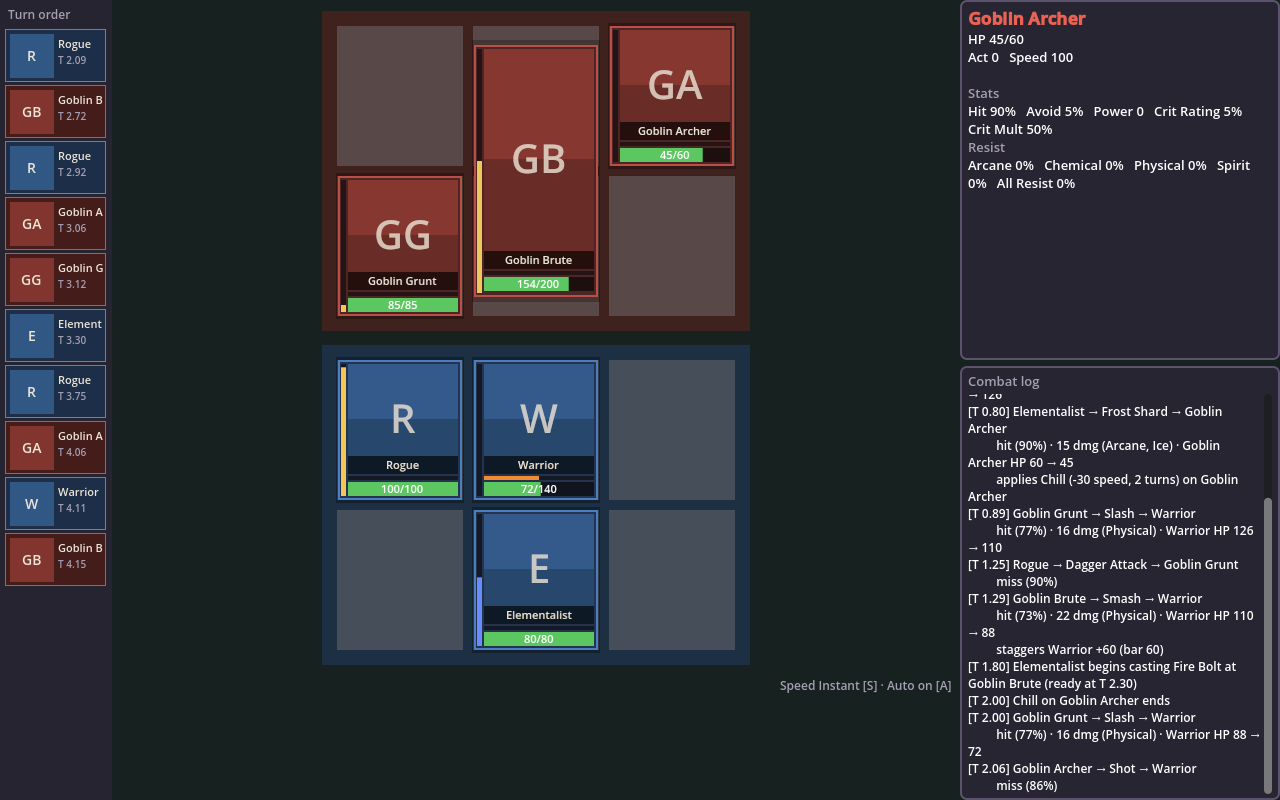
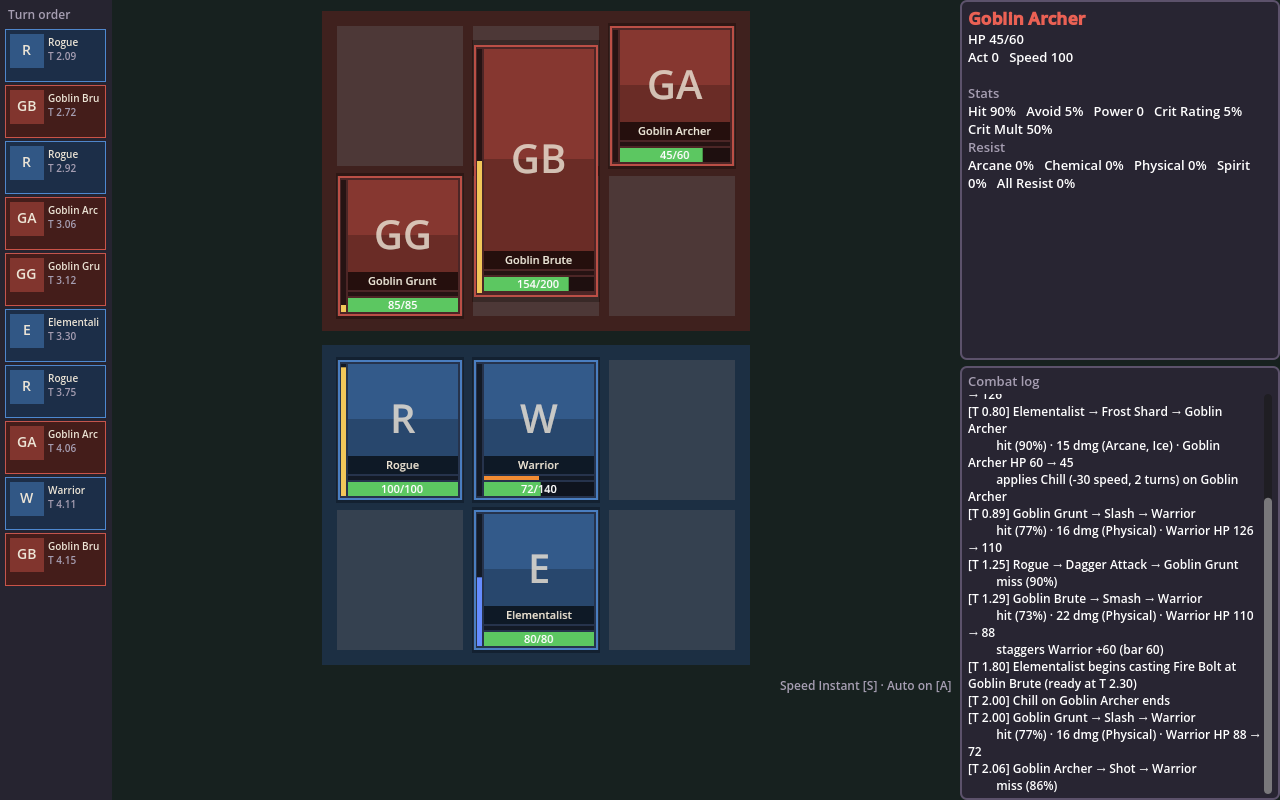
M2: tests and docs for the battle screen; Chief's hall shown side-on
Anchor: presentation.md (linked from the README) and presentation placeholders.
Tests: stepping, reason texts, art catalog and styles, art-requests up to date.
Screenshot mode can press keys and save the replay and log; the in-game log
matches sim replay. Reference screenshots refreshed.

Changed region(s): [[0.0, 0.0312, 0.0938, 0.75]]

diff --git a/tests/Core.Tests/AssetManifestTests.cs b/tests/Core.Tests/AssetManifestTests.cs
@@ -14,6 +14,49 @@ public class AssetManifestTests
     }
 
     [Fact]
+    public void Art_requests_doc_is_up_to_date()
+    {
+        var doc = File.ReadAllText(Path.Combine(TestPaths.RepoRoot, "docs", "art-requests.md")).Replace("\r\n", "\n");
+        Assert.True(doc == ArtCatalog.Markdown(TestData.Repo).Replace("\r\n", "\n"), "run sim art-requests");
+    }
+
+    [Fact]
+    public void The_art_catalog_covers_every_unit_and_sizes_art_at_twice_its_display()
+    {
+        var all = ArtCatalog.All(TestData.Repo);
+        foreach (var unit in TestData.Repo.UnitList)
+        {
+            var portrait = all.Single(r => r.Id == ArtCatalog.PortraitId(unit.Id));
+            var (w, h) = ArtCatalog.PortraitDisplay(unit.Size);
+            Assert.Equal((w * 2, h * 2), (portrait.Width, portrait.Height));
+            Assert.False(portrait.Optional);
+        }
+        Assert.Equal(all.Count, all.Select(r => r.Id).Distinct().Count());
+        Assert.All(all.Where(r => r.Group != "Portraits"), r => Assert.True(r.Optional));
+    }
+
+    [Fact]
+    public void Styles_are_listed_in_the_manifest_and_checked_against_the_catalog()
+    {
+        var root = Path.Combine(Path.GetTempPath(), "ed-styles-" + Guid.NewGuid().ToString("N"));
+        var dir = Path.Combine(root, "styles", "ink");
+        Directory.CreateDirectory(dir);
+        try
+        {
+            File.WriteAllText(Path.Combine(dir, "portrait_nobody.png"), "");
+            var manifest = AssetManifest.Parse("""{ "assets": [], "styles": [{ "id": "ink", "name": "Ink", "aiPlaceholder": true }] }""");
+            var missing = new Dictionary<string, int>();
+            var problems = manifest.CheckStyles(root, ArtCatalog.All(TestData.Repo), missing);
+            Assert.Contains(problems, p => p.Contains("portrait_nobody.png") && p.Contains("not in the art catalog"));
+            Assert.Equal(TestData.Repo.UnitList.Count, missing["ink"]);
+
+            var unlisted = AssetManifest.Parse("""{ "assets": [] }""").CheckStyles(root, ArtCatalog.All(TestData.Repo));
+            Assert.Contains(unlisted, p => p.Contains("not listed"));
+        }
+        finally { Directory.Delete(root, true); }
+    }
+
+    [Fact]
     public void Lists_only_flagged_assets()
     {
         var manifest = AssetManifest.Parse("""

diff --git a/game/scripts/ScreenshotJob.cs b/game/scripts/ScreenshotJob.cs
@@ -8,13 +8,13 @@ namespace EternalDungeon.Game;
 /// Screenshot mode (M2 brief §9): load an encounter and seed (or a replay), play a number of actions at instant speed
 /// (heroes on auto-battle unless a replay drives them), save a PNG of the screen and quit. Command line, after
 /// Godot's own arguments and a <c>--</c>:
-/// <code>--screenshot out.png --encounter goblin_patrol [--seed 42] [--actions 6] [--layout side_on] [--style ink] [--replay f.replay.json] [--select-hero] [--keys 1,Tab,Enter]</code>
+/// <code>--screenshot out.png --encounter goblin_patrol [--seed 42] [--actions 6] [--layout side_on] [--style ink] [--replay f.replay.json] [--select-hero] [--keys 1,Tab,Enter] [--save-replay f] [--save-log f]</code>
 /// <c>--select-hero</c> stops at the next hero turn and shows an action's target preview; <c>--keys</c> instead presses
 /// those keys at that turn (to check keyboard play) and shoots once the screen is waiting again.
 /// It needs a real window: Godot's headless mode doesn't render.
 /// </summary>
 public sealed record ScreenshotJob(string Path, string Encounter, ulong Seed, int Actions, BoardLayout? Layout, string? Style,
-    Replay? Replay, bool StopAtHero, string[] Keys)
+    Replay? Replay, bool StopAtHero, string[] Keys, string? SaveReplay = null, string? SaveLog = null)
 {
     public static ScreenshotJob? FromCommandLine(string[] args)
     {
@@ -36,6 +36,7 @@ public sealed record ScreenshotJob(string Path, string Encounter, ulong Seed, in
         };
         return new ScreenshotJob(System.IO.Path.GetFullPath(path), encounter, seed, actions, layout, values.GetValueOrDefault("style"), replay,
             values.ContainsKey("select-hero") || values.ContainsKey("keys"),
-            values.TryGetValue("keys", out var k) ? k.Split(',', StringSplitOptions.RemoveEmptyEntries | StringSplitOptions.TrimEntries) : []);
+            values.TryGetValue("keys", out var k) ? k.Split(',', StringSplitOptions.RemoveEmptyEntries | StringSplitOptions.TrimEntries) : [],
+            values.GetValueOrDefault("save-replay"), values.GetValueOrDefault("save-log"));
     }
 }

diff --git a/tests/Core.Tests/SessionTests.cs b/tests/Core.Tests/SessionTests.cs
@@ -103,12 +103,34 @@ public class SessionTests
             s.Advance();
         }
         s.AutoBattle = true;
-        if (s.Awaiting is { } waiting)
-            s.Choose(Pick(s.Battle, waiting));
+        if (s.Awaiting is not null)
+            s.ChooseByAi();                                                // the turn in progress goes to the AI too
         s.Advance();
         Assert.True(s.Over);
         Assert.Contains(s.Choices, c => c.Auto);
         Assert.Equal(Log(s.Battle), Log(s.ToReplay().Play(Repo).Battle));
+    }
+
+    [Fact]
+    public void Stepping_one_event_at_a_time_plays_the_same_battle()
+    {
+        var stepped = new BattleSession(Repo, Repo.Encounters["chief_hall"], 11) { AutoBattle = true };
+        while (!stepped.Over) stepped.Step();
+        var whole = new BattleSession(Repo, Repo.Encounters["chief_hall"], 11) { AutoBattle = true };
+        whole.Advance();
+        Assert.Equal(Log(whole.Battle), Log(stepped.Battle));
+    }
+
+    [Fact]
+    public void Every_reason_code_has_text()
+    {
+        string[] codes = ["not_enough_mana", "rooted", "silenced", "afraid", "target_down", "only_targets_self", "not_an_ally",
+            "not_an_enemy", "targets_a_tile", "out_of_reach", "not_in_front_row", "nowhere_to_move", "no_valid_target"];
+        foreach (var code in codes) Assert.True(Repo.Text.Has("reason." + code), code);
+        var src = Path.Combine(TestPaths.RepoRoot, "src", "Core", "Combat");
+        var used = Directory.GetFiles(src, "*.cs").SelectMany(f => System.Text.RegularExpressions.Regex.Matches(File.ReadAllText(f),
+            @"return ""([a-z_]+)""").Select(m => m.Groups[1].Value));
+        Assert.All(used, code => Assert.Contains(code, codes));
     }
 
     [Fact]

diff --git a/game/scripts/BattleUi/BattleScreen.cs b/game/scripts/BattleUi/BattleScreen.cs
@@ -721,6 +721,8 @@ public partial class BattleScreen : Control
         var image = GetViewport().GetTexture().GetImage();
         System.IO.Directory.CreateDirectory(System.IO.Path.GetDirectoryName(job.Path)!);
         image.SavePng(job.Path);
+        if (job.SaveReplay is { } replayPath) System.IO.File.WriteAllText(replayPath, Session.ToReplay().ToJson());
+        if (job.SaveLog is { } logPath) System.IO.File.WriteAllText(logPath, log.GetParsedText());
         GD.Print($"Screenshot saved: {job.Path}");
         GetTree().Quit();
     }

diff --git a/docs/design/presentation.md b/docs/design/presentation.md
@@ -1,0 +1,68 @@
+# Presentation
+
+How battles look and feel on screen (decided for M2, 2026-10-04). Rules live in [Combat](combat.md); this page is
+only how they're shown. Choices Claude made beyond these are under Presentation in [Placeholders](placeholders.md).
+
+## The table
+
+- The battlefield is a **3D table seen from above**, with each unit as a flat 2D card. All "3D" is card transforms:
+  lift, tilt, flip, shake, shadow.
+- **Layouts:** where the areas sit on the table is presentation only; the rules are front-relative, so a fight plays
+  the same in any layout. **Vertical** (default): party at the bottom, enemies at the top, front rows facing.
+  **Side-on**: party left, enemies right. Each encounter names its layout.
+- **Cards:** the face shows the portrait, name, HP bar with numbers, Shield, the Act meter along one edge (a cast's
+  progress while casting), the stagger bar (white while broken) and status icons. Images hold no text: everything
+  written on a card comes from the engine.
+- **Card size follows footprint:** a single card for size 1, a double card over 2 tiles for size 1.5, a large card
+  over a 2×2 block for size 2. Portraits are square for sizes 1 and 2 and 1:2 for size 1.5. When a size-1.5 card lies
+  across the screen (side-on), only its portrait turns 90°; the card's frame and text stay upright.
+- **Portrait states:** optional portraits for low HP, hurt, attacking, casting and knocked out; only the default is
+  required, and a missing state falls back to it. States may later be animations, with no code changes.
+- **Death:** the card flips face down and stays on the board.
+
+## Screen layout
+
+Designed at **1280×800** (Steam Deck's native 16:10) and scaled up for larger screens; 16:9 adds side space.
+
+- **Centre:** the board. **Left edge:** the turn-order timeline, upcoming turns as small portraits that slide into
+  their new order after each action. **Right edge:** the details panel for the selected or hovered unit above a
+  scrolling combat log. **Bottom:** the action bar for the active hero.
+- **Action bar:** actions are buttons styled as small card frames (icon, name, AP cost, Mana cost, cast time), not a
+  hand of cards. Unusable actions show disabled, with the reason.
+
+## A hero's turn
+
+1. The active hero's card lifts and glows, and the action bar shows its actions.
+2. Hovering an action shows a **ghost marker** on the timeline where the hero's next turn would land (and where a
+   cast completes). It's an estimate at the hero's current Speed.
+3. Picking an action highlights valid targets (or empty tiles for Move). Hovering a target shows the **preview**: hit
+   chance, damage on a normal hit, a crit and a Brutal crit with their chances, effects it would apply, and procs that
+   could trigger with their chances. Damage is static (no damage roll), so the numbers are exact; procs aren't in them.
+4. Click to confirm; right-click or Escape steps back. Enemy turns play automatically.
+5. **Heroes the player can't fully control:** Stunned or Sleeping heroes lose the turn (shown briefly). Feared heroes
+   can only Defend or Move away from the front. A Confused hero's player picks the action, and the target is random.
+
+The combat log uses the same text as the simulator's brief log, with every damage tag. Previews never roll anything,
+so looking can't change a battle.
+
+## Feedback
+
+- Attacks lunge and snap back; ranged attacks and spells send a projectile. The target shakes and tilts.
+- Damage numbers float up: bigger for crits, a distinct style for Brutal. A miss shows "Miss" and the target sidesteps.
+- Casting shows on the card's meter, then the effect travels to the target. Statuses are icons on the card; Stun
+  tilts the card, and a stagger break flashes the bar white.
+- **Pacing:** about 0.5 s per enemy action at 1×. Speeds 1×, 2× and near-instant; a click skips the current animation.
+
+## Input, text and accessibility
+
+- Mouse first, with keyboard: 1–9 pick an action, Tab cycles targets, Space or Enter confirms, Escape cancels, and one
+  key cycles battle speed. Everything runs on focus, so a controller can drive it later by mapping buttons; nothing
+  depends on hover alone.
+- All UI text lives in string tables (data/strings.csv, Godot's translation format), never in scenes or code.
+- Statuses use shape plus colour, never colour alone. There is a text-size setting.
+
+## Art
+
+- Art is drawn at **2× display size** at the 1280×800 reference, so it stays sharp on larger screens.
+- Each candidate **style** is a folder of images with the same ids and sizes (docs/art-requests.md lists them,
+  generated from the data). Missing art falls back to a generated placeholder card, never a crash.

diff --git a/CLAUDE.md b/CLAUDE.md
@@ -47,15 +47,22 @@ dotnet run --project src/Sim -- export-tsv sheets    # every data table as a TSV
 dotnet run --project src/Sim -- import-tsv sheets    # validate the TSVs, print changes, write data/*.json
 dotnet run --project src/Sim -- format-data          # rewrite data/*.json in canonical form (after hand edits)
 dotnet run --project src/Sim -- replay fight.replay.json   # play a replay saved by the game, print its log
-dotnet run --project src/Sim -- assets               # check the asset manifest, list AI placeholders
+dotnet run --project src/Sim -- assets               # check the asset manifest and art styles, list AI placeholders
+dotnet run --project src/Sim -- art-requests         # rewrite docs/art-requests.md (a test checks it's current)
 dotnet test --filter-method "*Bad_enum*"             # one test by name (wildcards allowed)
 powershell -ExecutionPolicy Bypass -File tools/build.ps1   # export Windows + Linux builds into builds/
 ```
 
-Running Godot headless (from the repo root, `$g` = the console exe):
-`& $g --headless --path game --import` after adding assets, `& $g --headless --path game --quit-after 30` to
-run the main scene and see its prints. Exports need the 4.7.2 .NET export templates
-(Editor > Manage Export Templates).
+Running Godot (from the repo root, `$g` = the console exe; `dotnet build` first so the game assembly is current):
+`& $g --path game` plays the game (debug menu). `& $g --headless --path game --import` after adding assets.
+Exports need the 4.7.2 .NET export templates (Editor > Manage Export Templates).
+
+**Screenshot mode** checks UI work without anyone at the screen (it opens a window briefly: headless doesn't render):
+`& $g --path game -- --screenshot docs/screenshots/x.png --encounter goblin_patrol --seed 42 --actions 6`, plus
+optionally `--layout side_on`, `--style <folder>`, `--replay f.replay.json`, `--select-hero` (stop at the next hero
+turn and show a target preview), `--keys 1,Tab,Enter` (press keys at that turn, to test keyboard play),
+`--save-replay f` and `--save-log f` (the in-game log, to compare with `sim replay f`). Look at the PNG after any
+visual change.
 
 **Git: work and commit on `master`.** Never create a branch unless Jeremy asks.
 
@@ -69,7 +76,12 @@ src/Sim/           command-line tool (assembly name `sim`): battle simulator, da
 docs/design/       the Design Anchor;  docs/briefs/  build briefs;  docs/sample-logs/  simulator output
 tests/Core.Tests/  xUnit tests for Core
 game/              Godot .NET project: presentation and input only
-  assets/manifest.json   every image, its size and its AI-placeholder flag
+  scripts/Main.cs        app root: data, translations, settings, menu ↔ battle; screenshot mode (ScreenshotJob)
+  scripts/BattleUi/      the battle screen: BattleScreen (turn flow, input, animation), BoardView (3D table and
+                         layouts), CardView/CardFace (cards), Timeline, DetailsPanel, ActionButton, StatusIcon
+  assets/manifest.json   fixed images (size, AI-placeholder flag) and the art styles
+  assets/styles/<style>/ one folder per candidate art style, images by ArtCatalog id (docs/art-requests.md)
+docs/screenshots/  reference screenshots from screenshot mode
 tools/build.ps1    export script
 builds/            export output (not committed)
 ```
@@ -94,6 +106,13 @@ invalid data). When you add a table or column: its schema in `Schemas.cs` (a new
 **No hard-coded text.** Every word shown to a player, including the combat log, comes from `data/strings.csv`
 (`Strings`, `GameData.Text`; Godot's CSV translation format, named placeholders `{actor}`). Core formats the log
 from it; the game registers the same file with Godot's TranslationServer. When you add text, add its key there.
+
+**Game screen (game/scripts/BattleUi).** It drives a Core `BattleSession` one clock event at a time and animates
+each result; it reads state, never changes it except through the session. Everything the player points at is a
+focusable 2D control laid over the 3D cards (`BattleScreen` keeps them aligned each frame), so mouse, keyboard and a
+future controller share one focus, and every hover preview also shows on focus. Text: `Text.T`/`Text.F` (or a
+`reason.*` key for Core's reason codes). Watch the `Side` (Core vs Godot) and `Text` (helper vs Button.Text) name
+clashes: the BattleUi files alias them.
 
 **Asset pipeline.** Every image loads through `game/assets/manifest.json` (id, path relative to
 `game/assets`, width, height, `aiPlaceholder`, optional note), so final art drops in without code changes.

diff --git a/docs/design/placeholders.md b/docs/design/placeholders.md
@@ -35,3 +35,18 @@ Threat, its scale and Vulnerability: kept until after M2, then reviewed from pla
 | Threat | Damage dealt + healing done in this battle, plus the Threat stat (Cloak −50) |
 | Threat vs. Vulnerability scale | Threat is divided by the highest Threat among the possible targets, so both are 0–1 |
 | Vulnerability | The share of Health missing, plus the Vulnerability stat ÷ 100 |
+
+## Presentation
+
+| Rule | Placeholder |
+| --- | --- |
+| Camera | Straight down and orthographic (no perspective), so cards show at exactly their design size and text stays sharp. Lift shows as a slightly larger card with its shadow offset |
+| Card and tile sizes | Small card 124×140 px on a 136×150 px tile at 1280×800; portraits 110×110 (Tall 110×220, Large 246×246). Art is twice that |
+| Enemy lanes | Enemy column 0 is on the left in the vertical layout, as for the party (not mirrored) |
+| Timeline | The next 10 turns, assuming each unit keeps its Speed and spends 100 AP a turn |
+| Ghost marker | Replaces the hero's next predicted turn on the timeline |
+| Statuses on cards | One icon per kind: each crowd-control kind, damage over time, and generic buff and debuff (a buff from an ally is a buff, from an enemy a debuff) |
+| Pacing | 0.5 s per action at 1×, 0.25 s at 2×, none at Instant; floating numbers stay at least 0.6 s |
+| Keys | S cycles speed, A toggles auto-battle, Space or a click skips an animation |
+| Text size | 85%, 100%, 115% or 130% |
+| Replays | Saved in the game's user folder as `<date>_<encounter>_<seed>.replay.json`, listed in the debug menu |

diff --git a/docs/design/README.md b/docs/design/README.md
@@ -13,6 +13,7 @@ The Anchor moved here from claude.ai on 2026-10-04 and is versioned with the cod
 - [Terminology](terminology.md)
 - [Stat system](stats.md)
 - [Combat](combat.md)
+- [Presentation](presentation.md): how battles look and feel on screen
 - [Classes & skills](classes.md)
 - [Equipment & character power](equipment.md)
 - [Dungeons & adventure](dungeons.md)
